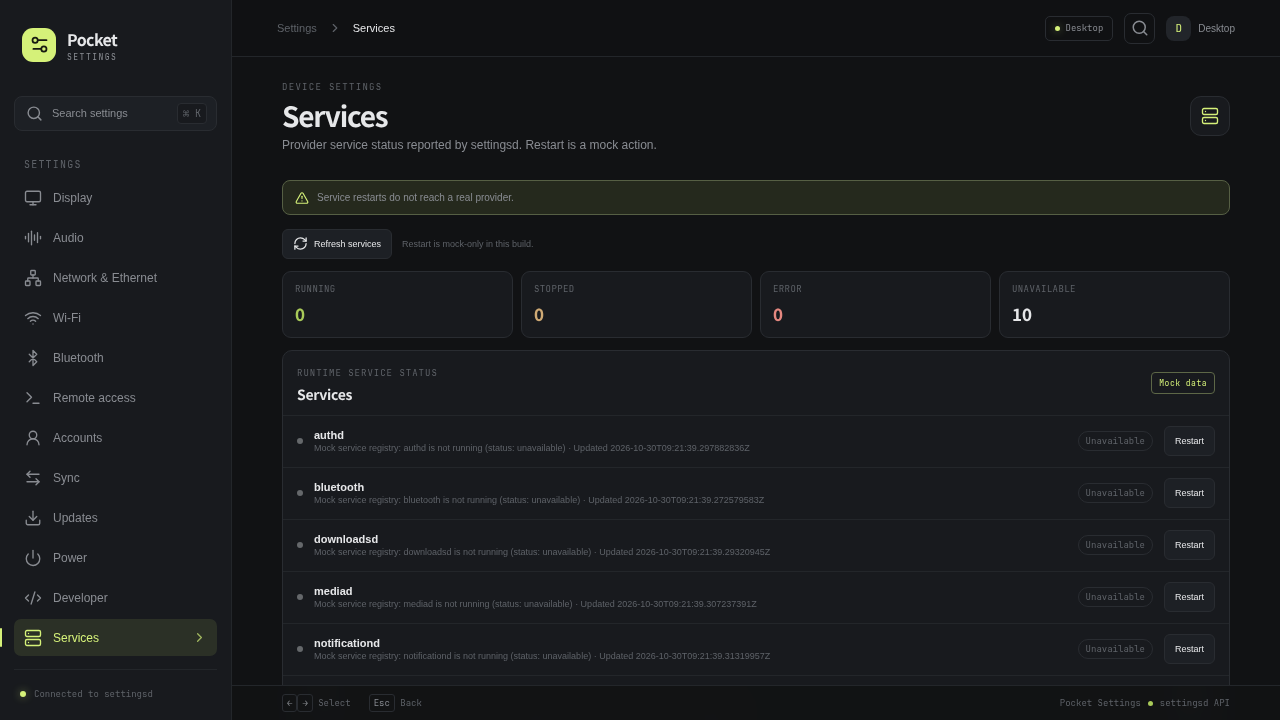
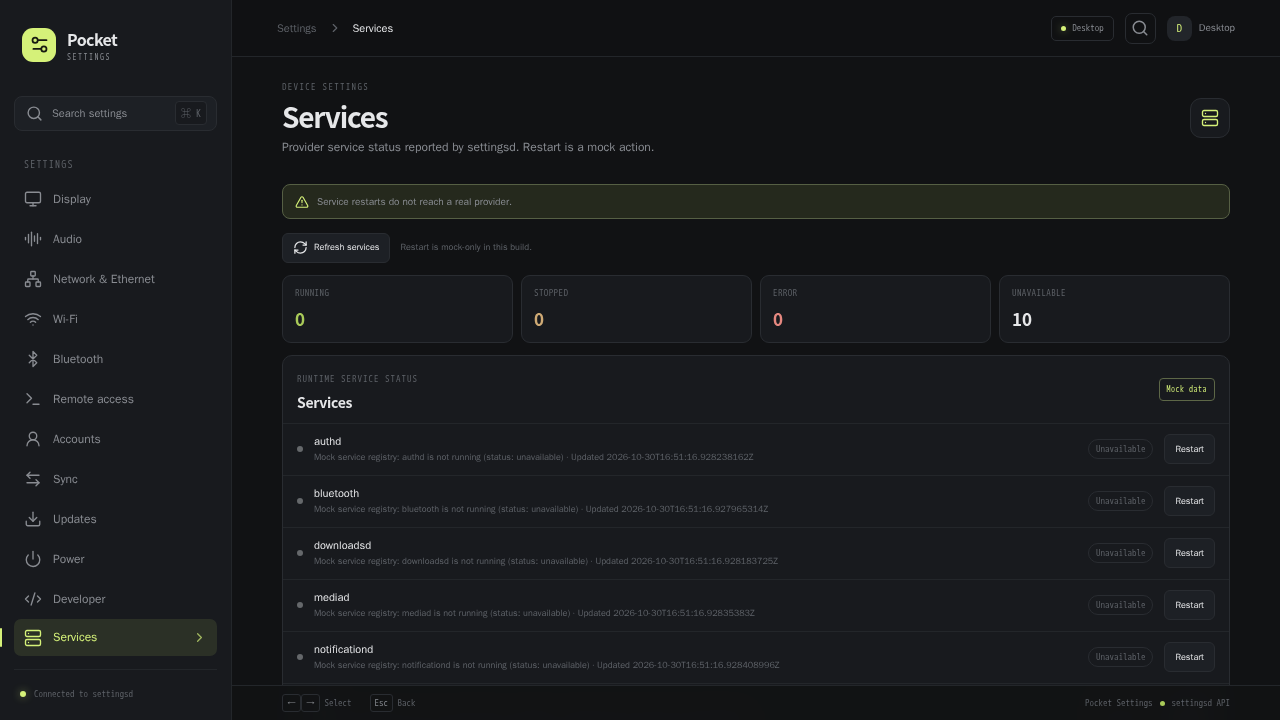
fix: resolve the Chrome binary instead of spawning chromium
make test and the screenshot harness both spawned a literal 'chromium',
which is absent on Debian, so the gate died with ENOENT before any UI
work. Honour CHROMIUM/CHROME_PATH and fall back to the common Chrome
paths. Also add a favicon so pages stop logging a 404, and regenerate
all 28 screenshots with fresh hashes.

diff --git a/apps/pocket-settings/frontend/index.html b/apps/pocket-settings/frontend/index.html
@@ -4,6 +4,7 @@
     <meta charset="UTF-8" />
     <meta name="viewport" content="width=device-width, initial-scale=1.0" />
     <meta name="theme-color" content="#101216" />
+    <link rel="icon" type="image/svg+xml" href="/favicon.svg" />
     <title>Pocket Settings</title>
   </head>
   <body>

diff --git a/VERIFICATION.md b/VERIFICATION.md
@@ -1,0 +1,91 @@
+# Verification — pocket-settings @ 2026-10-31
+
+- Verdict: PASS
+- Commit: `__COMMIT__` (fixes + screenshots; this document is the following commit)
+- Remote: `__REMOTE__`
+- Runtime: `settingsd` on `127.0.0.1:8090` (fresh temp SQLite, mock capability providers) + Vite `127.0.0.1:15173`; `make build` production bundle
+- Toolchain: go 1.26.0, node v22.23.3, Chrome 155.0.8059.84
+
+## Test gate
+| command | result | notes |
+|---|---|---|
+| `node scripts/check-i18n.mjs` | PASS | 3 locales × 405 keys |
+| `go test ./...` | PASS | 30 settingsd tests, 0 failures |
+| `npm run build` | PASS | `tsc -b && vite build` |
+| `node scripts/ui-smoke.mjs` | PASS | keyboard-only real-browser walk: dark/en Overview → light/ja 概要, no console errors |
+
+`make test` runs all four gates (it also boots a temporary settingsd + Vite on
+18091/15174, selects the mock Desktop profile and runs the smoke walk); green.
+
+## Runtime
+Health `{"status":"ok"}`. The URL contract drives every capture
+(`?page=…&hardware=…&theme=…&locale=…`); hardware profiles are the documented mock
+capability sets (Desktop, RG34XX, RG40XX, Leaf3C), and no real system write is claimed or
+performed. The UI renders all 15 settings pages, 3 themes (dark/light/OLED), 3 locales and
+6 viewport sizes.
+
+## Screenshot matrix
+All 28 images were regenerated this run by the repo harness
+`apps/pocket-settings/tests/screenshots.mjs` (raw DevTools protocol, system Chrome) against
+the live stack; `manifest.json` was rewritten with the new hashes.
+
+| screen | viewport | file | note |
+|---|---|---|---|
+| home | 1280×720 | `apps/pocket-settings/docs/screenshots/home-Desktop-dark-en.png` | sha256 fc8b123de9da4cd9 |
+| display | 1280×720 | `apps/pocket-settings/docs/screenshots/display-Desktop-dark-en.png` | sha256 99464d2d9d8da2b6 |
+| audio | 1280×720 | `apps/pocket-settings/docs/screenshots/audio-Desktop-dark-en.png` | sha256 c175b874f1deeb1a |
+| network | 1280×720 | `apps/pocket-settings/docs/screenshots/network-Desktop-dark-en.png` | sha256 de8b93025364de02 |
+| wifi | 1280×720 | `apps/pocket-settings/docs/screenshots/wifi-Desktop-dark-en.png` | sha256 4a1a23d871ee8915 |
+| bluetooth | 1280×720 | `apps/pocket-settings/docs/screenshots/bluetooth-Desktop-dark-en.png` | sha256 845017bbdd3e25d5 |
+| remote | 1280×720 | `apps/pocket-settings/docs/screenshots/remote-Desktop-dark-en.png` | sha256 12588d1fe45fc440 |
+| storage | 1280×720 | `apps/pocket-settings/docs/screenshots/storage-Desktop-dark-en.png` | sha256 f9ba0ec07e7ea994 |
+| accounts | 1280×720 | `apps/pocket-settings/docs/screenshots/accounts-Desktop-dark-en.png` | sha256 9f99723453477e73 |
+| sync | 1280×720 | `apps/pocket-settings/docs/screenshots/sync-Desktop-dark-en.png` | sha256 7de5cbc51dc06636 |
+| updates | 1280×720 | `apps/pocket-settings/docs/screenshots/updates-Desktop-dark-en.png` | sha256 53b7c219348d2a42 |
+| power | 1280×720 | `apps/pocket-settings/docs/screenshots/power-Desktop-dark-en.png` | sha256 cb9957b8da164329 |
+| developer | 1280×720 | `apps/pocket-settings/docs/screenshots/developer-Desktop-dark-en.png` | sha256 950c1ffe3c4fbbd1 |
+| system | 1280×720 | `apps/pocket-settings/docs/screenshots/system-Desktop-dark-en.png` | sha256 9b5610bb977025f3 |
+| services | 1280×720 | `apps/pocket-settings/docs/screenshots/services-Desktop-dark-en.png` | sha256 391bff2305c2f66d |
+| home | 1280×720 | `apps/pocket-settings/docs/screenshots/home-handheld-RG34XX.png` | sha256 919d27ab3f11be0c |
+| home | 1280×720 | `apps/pocket-settings/docs/screenshots/home-light-en-Desktop.png` | sha256 e46ba8754636e91c |
+| home-light | 1280×720 | `apps/pocket-settings/docs/screenshots/home-light-zh-CN-Desktop.png` | sha256 4a81861342690a22 |
+| home | 1280×720 | `apps/pocket-settings/docs/screenshots/home-oled-ja-Desktop.png` | sha256 c40bc5ea52be6151 |
+| display | 1280×720 | `apps/pocket-settings/docs/screenshots/display-light-en-Desktop.png` | sha256 80c12f074d22b8ff |
+| display | 1280×720 | `apps/pocket-settings/docs/screenshots/display-oled-ja-Desktop.png` | sha256 0b0ff0ad0c89a0b1 |
+| display | 1280×720 | `apps/pocket-settings/docs/screenshots/display-Leaf3C-eink.png` | sha256 987da1659ba31321 |
+| wifi | 1280×720 | `apps/pocket-settings/docs/screenshots/wifi-Leaf3C-dark-en.png` | sha256 77e1ee22d8537362 |
+| home | 320×240 | `apps/pocket-settings/docs/screenshots/home-320x240.png` | sha256 ef3a9321469c632a |
+| home | 480×320 | `apps/pocket-settings/docs/screenshots/home-480x320.png` | sha256 361bac425db63bb3 |
+| home | 640×480 | `apps/pocket-settings/docs/screenshots/home-640x480.png` | sha256 78b0f6d212341cb3 |
+| home | 720×720 | `apps/pocket-settings/docs/screenshots/home-720x720.png` | sha256 045d9b4c647a2382 |
+| home | 1920×1080 | `apps/pocket-settings/docs/screenshots/home-1920x1080.png` | sha256 63f24e9bace17291 |
+
+Count: 28 screenshots, 28 unique hashes (0 duplicates). `tools/check_shots.py`: all PNGs valid,
+dimensions match, minimum per-image RGB stddev above the blank threshold (no blank frames).
+`docs/SCREENSHOTS.md` hash column was refreshed from this run's manifest.
+
+Runtime probe (`tools/probe.mjs`) on `?page=home&hardware=Desktop&theme=dark&locale=en` at
+1280×720 and 480×320: HTTP 200, non-empty document, no console/page errors, no failed or
+4xx/5xx requests, no horizontal overflow.
+
+## Fixed
+- `make test` failed immediately on this host: both browser scripts spawned the literal binary
+  `chromium`, which does not exist on Debian (`spawn chromium ENOENT`). The harness ignored
+  `CHROME_PATH` and only honoured `CHROMIUM`. → resolve the binary from
+  `CHROMIUM`/`CHROME_PATH` and fall back to `/usr/bin/google-chrome`, `/usr/bin/chromium`,
+  `/usr/bin/chromium-browser`, `/run/current-system/sw/bin/chromium`, failing with a clear
+  error when none exists → `apps/pocket-settings/frontend/scripts/ui-smoke.mjs` and
+  `apps/pocket-settings/tests/screenshots.mjs` → `make test` now passes and the 28-shot
+  capture runs unchanged.
+- Every page logged a console 404 for `/favicon.ico`. → added
+  `apps/pocket-settings/frontend/public/favicon.svg` plus the `<link rel="icon">` in
+  `index.html`; probe is now clean at both viewports.
+
+## Blocked / open questions
+- Wi-Fi/Bluetooth/storage/accounts/sync/updates/power/services remain intentionally mock and
+  non-controllable (`503 provider_unavailable` after confirmation); this is the documented
+  product boundary, not a regression.
+
+## Not verified here
+- 掌机真机（RG34XX / PJOS-LINUX）未验证；本轮只在本机 headless Chrome 里跑真实进程。
+- Real system settings writes, real hardware capability detection, real PJOS service clients.

diff --git a/apps/pocket-settings/docs/SCREENSHOTS.md b/apps/pocket-settings/docs/SCREENSHOTS.md
@@ -15,34 +15,34 @@ presentation metadata — no physical capability or service state is implied.
 
 | File | Dimensions | SHA-256 |
 |---|---|---|
[56 lines of base64/hex data omitted]
 
 
 ## Coverage
